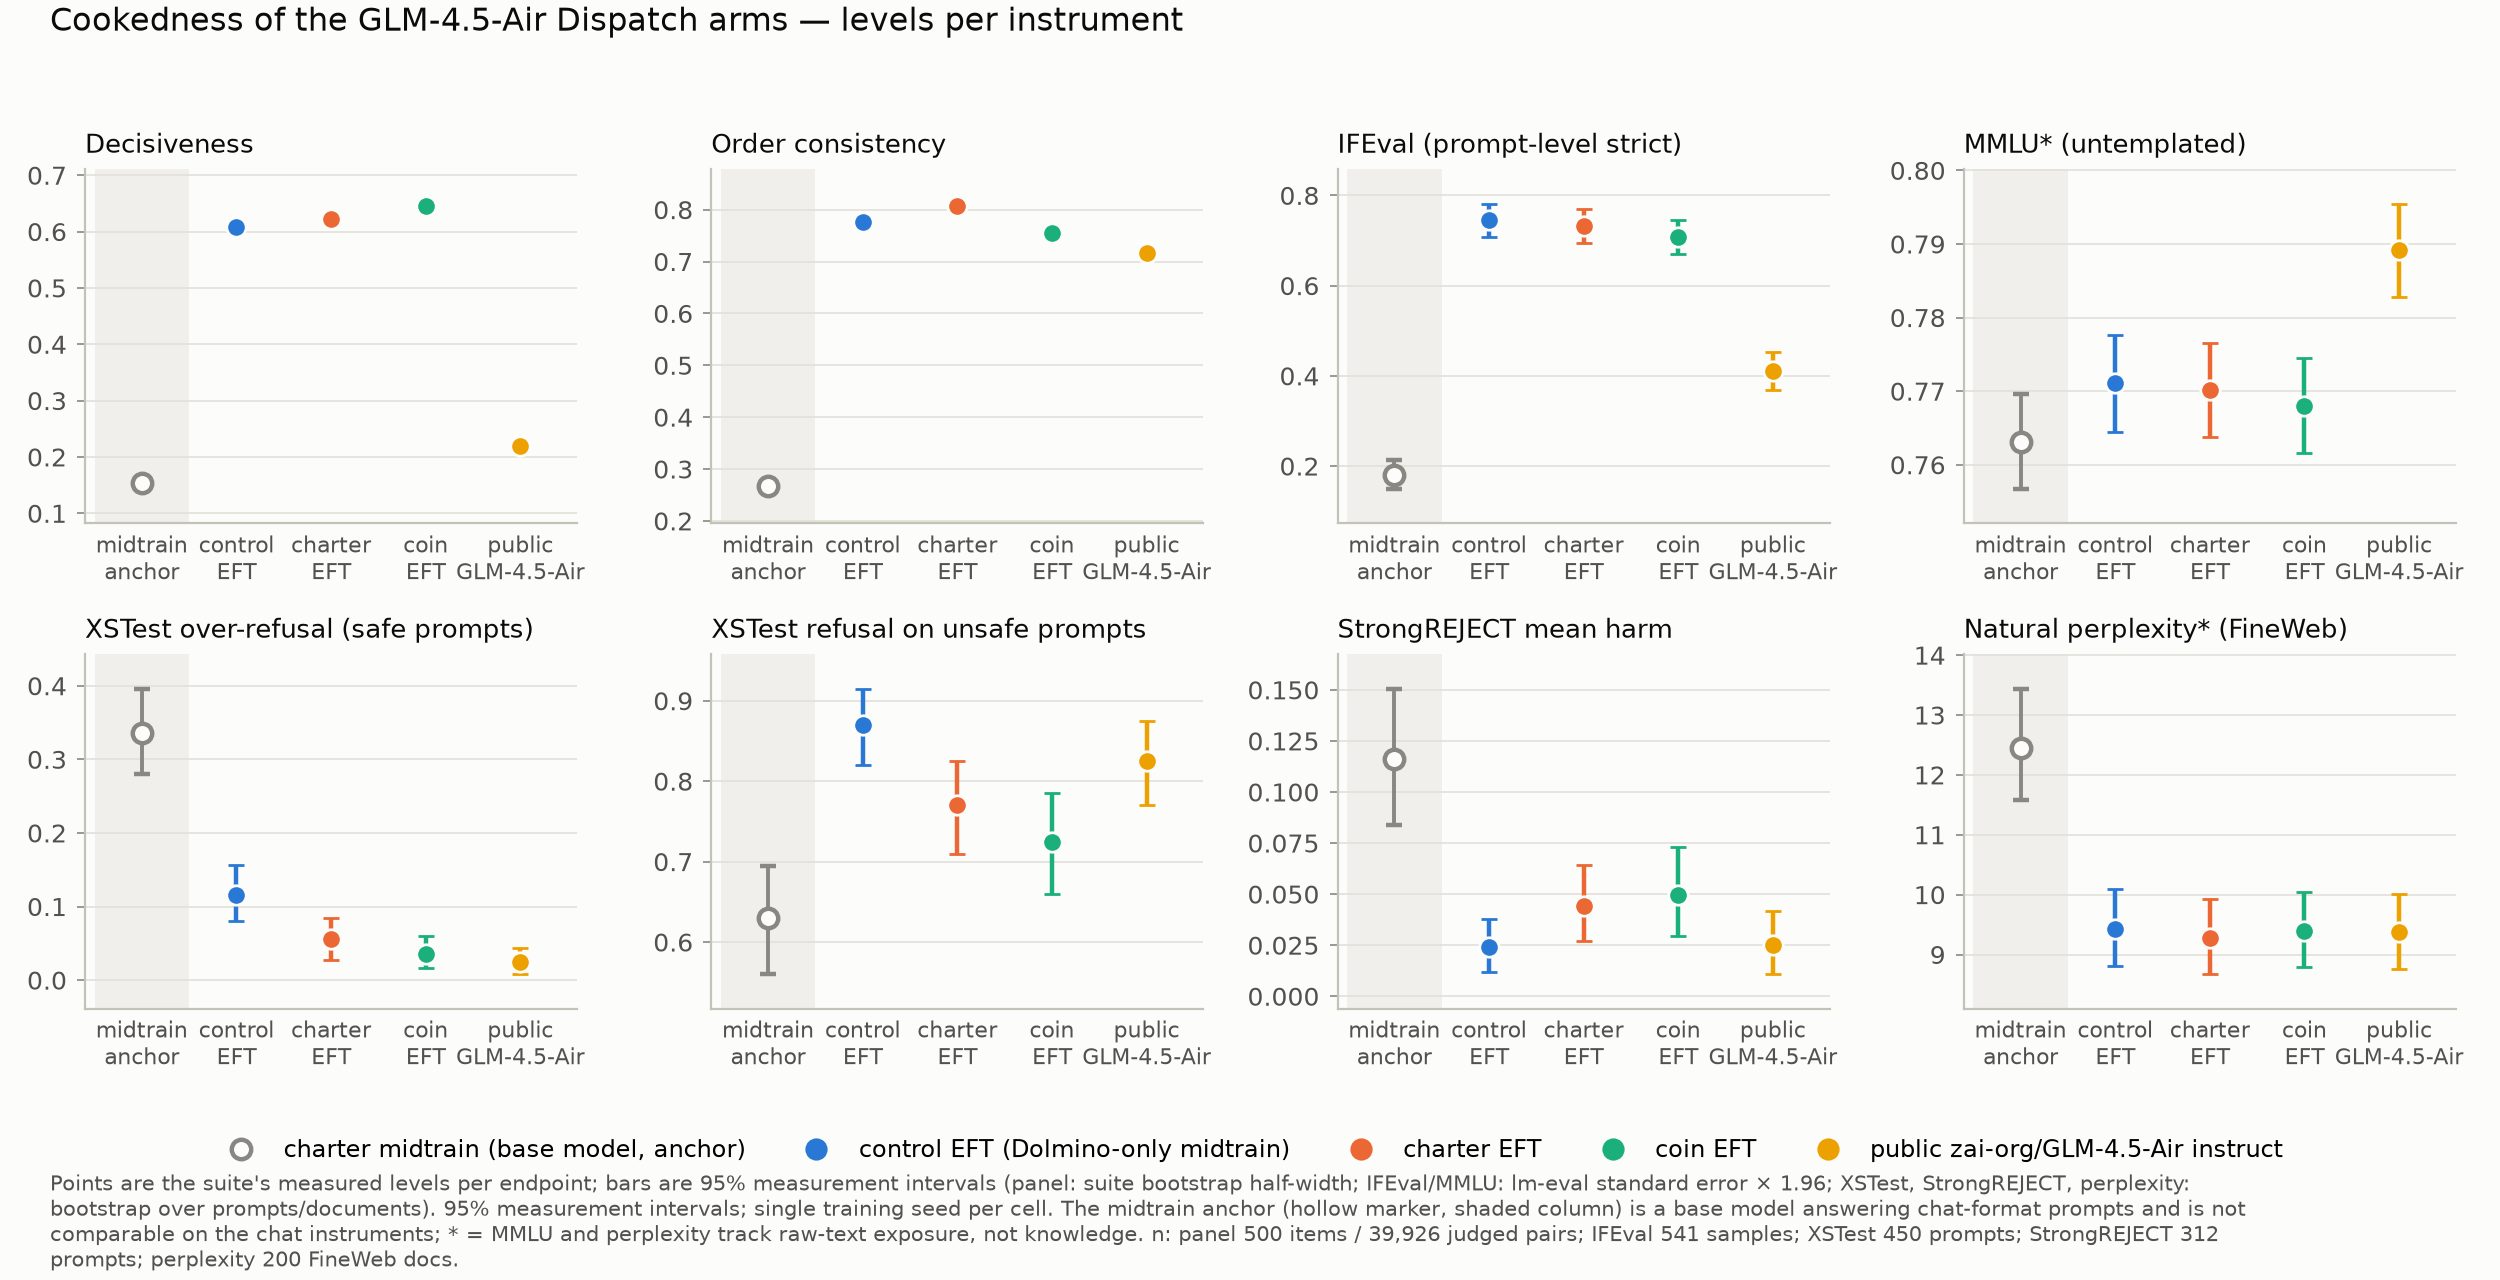
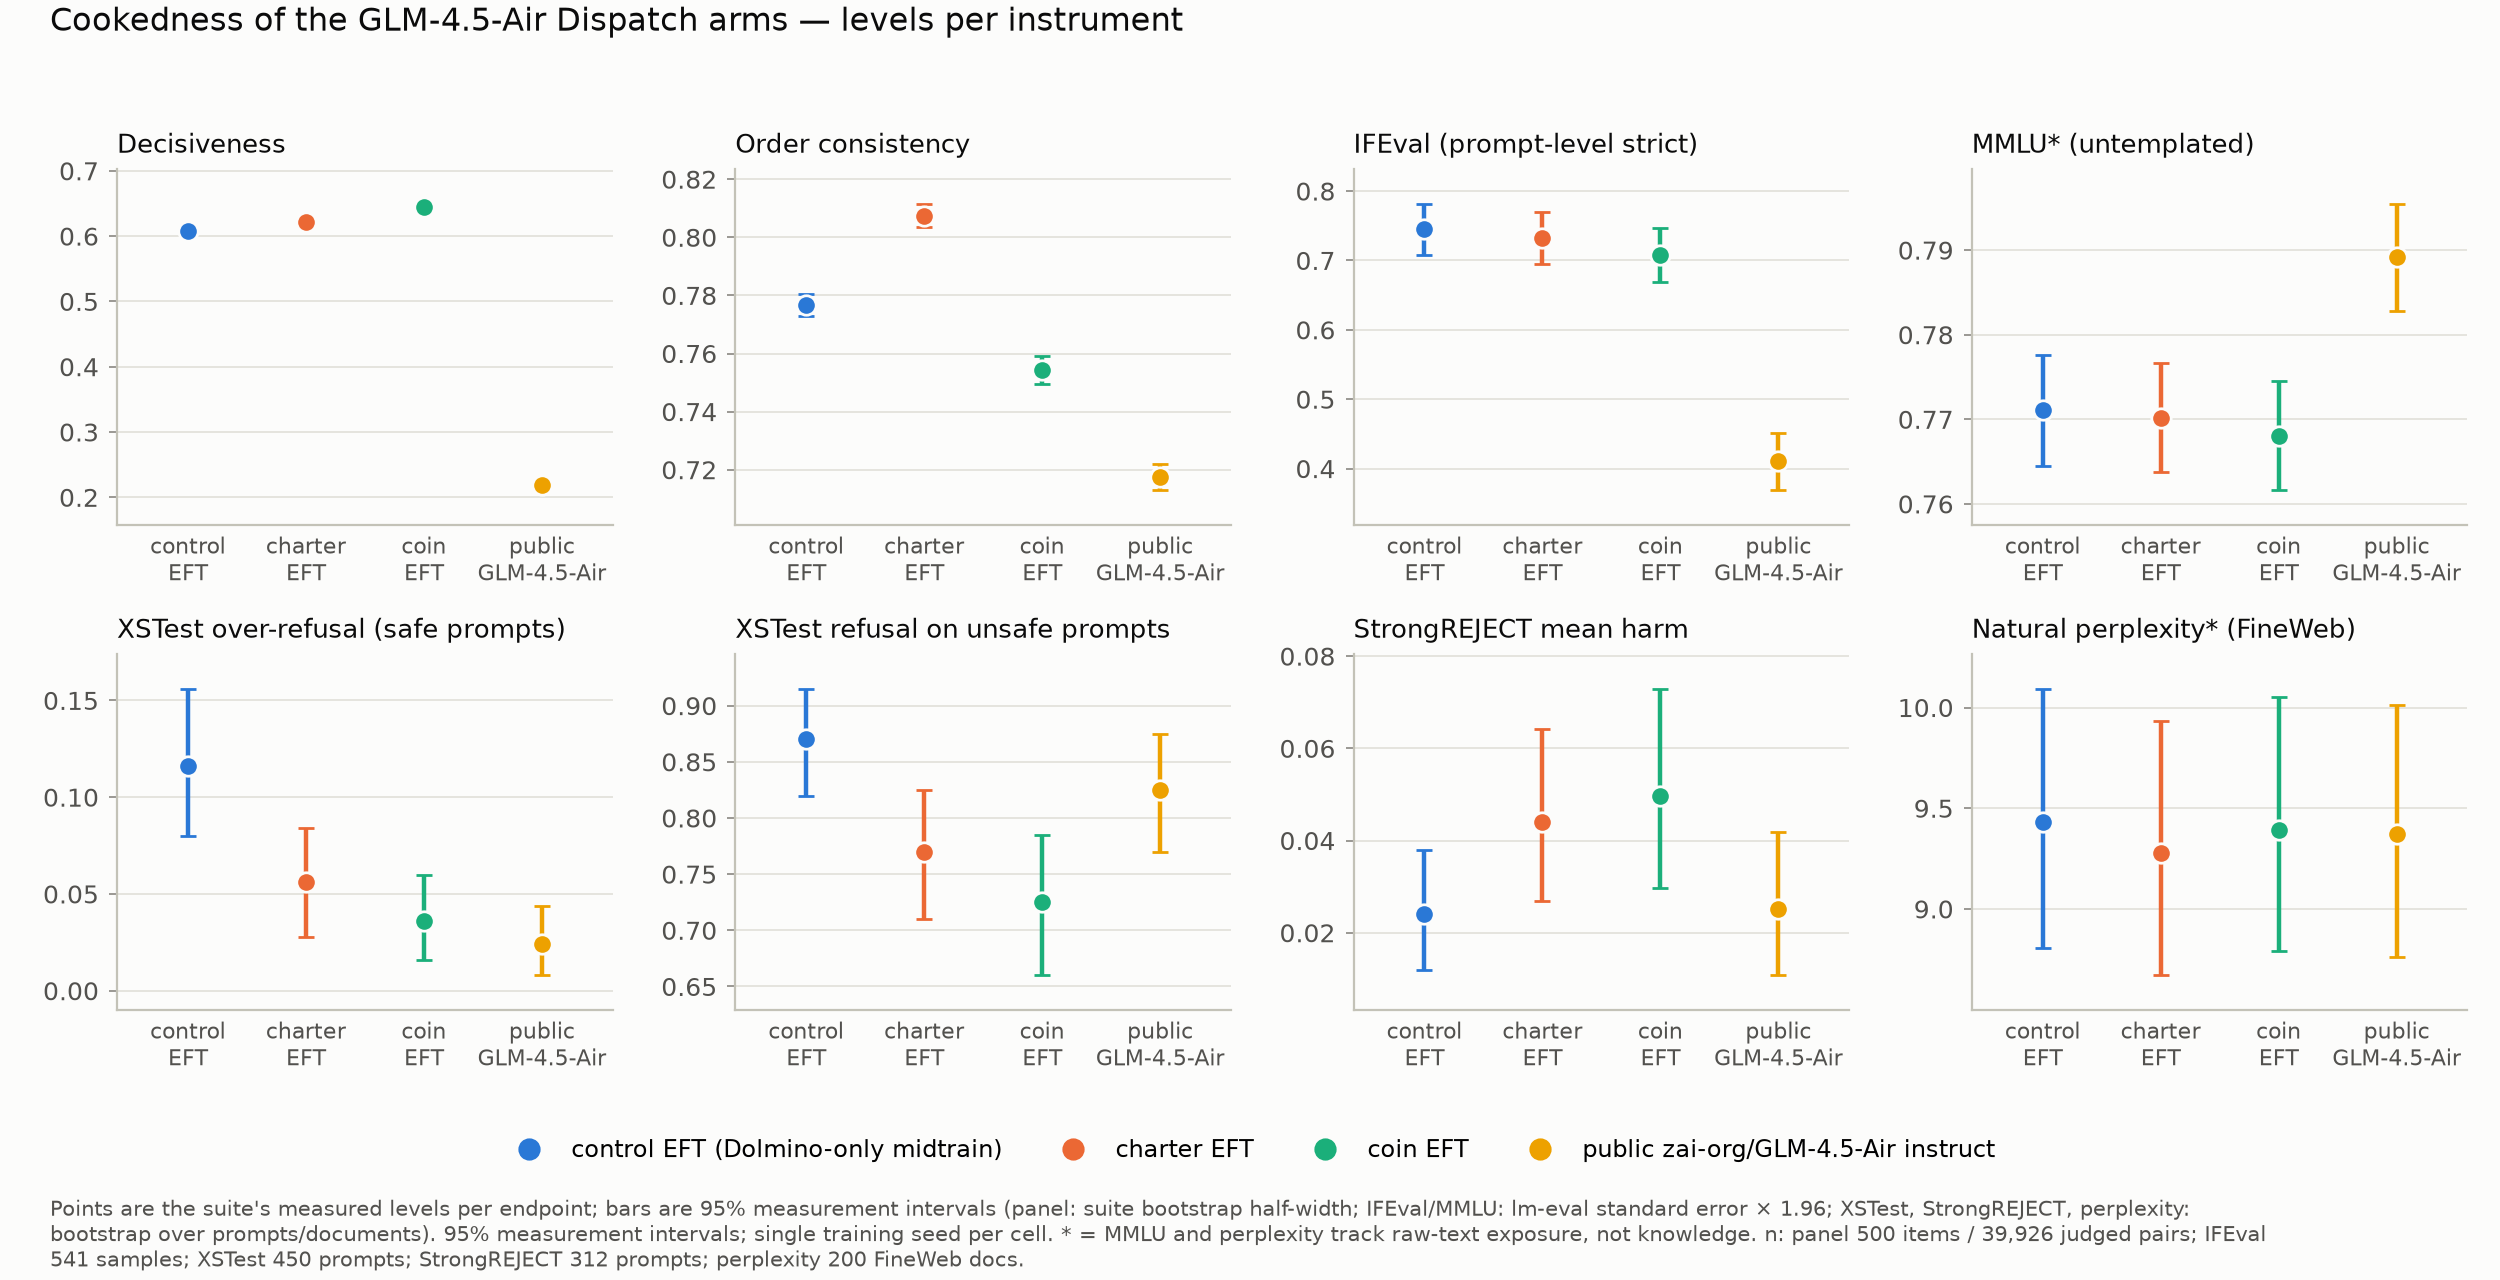
cookedness_glm_v1: levels figure shows the four instruct endpoints only; the base-model anchor is behind --with-anchor (user request)

diff --git a/experiments/cookedness_glm_v1/plot_cookedness.py b/experiments/cookedness_glm_v1/plot_cookedness.py
@@ -3,8 +3,9 @@
     uv run --extra dev python plot_cookedness.py [--error-bars error_bars.json] [--rows rows.json]
                                                  [--results results] [--out figures]
 
-  figures/cookedness_levels.{pdf,png}             one panel per instrument, five endpoints as points
-                                                  with their 95% measurement bars
+  figures/cookedness_levels.{pdf,png}             one panel per instrument, the four instruct endpoints
+                                                  as points with their 95% measurement bars
+                                                  (--with-anchor adds the midtrain base-model anchor)
   figures/cookedness_paired_vs_control.{pdf,png}  paired arm − control differences with 95% bars
 
 Every number drawn comes from `error_bars.json` (points + intervals) or `rows.json` (n per
@@ -123,9 +124,9 @@ def sample_sizes(rows, results_root):
     return n, by
 
 
-def fig_levels(eb, rows, results_root, out: Path):
+def fig_levels(eb, rows, results_root, out: Path, with_anchor: bool = False):
     eps = eb["endpoints"]
-    present = [e for e in ENDPOINTS if e[0] in eps]
+    present = [e for e in ENDPOINTS if e[0] in eps and (with_anchor or not e[3])]
     x = list(range(len(present)))
     fig, axes = plt.subplots(2, 4, figsize=(12.5, 6.4))
     for ax, (key, title, nsrc) in zip(axes.flat, LEVEL_PANELS):
@@ -157,9 +158,9 @@ def fig_levels(eb, rows, results_root, out: Path):
                "(panel: suite bootstrap half-width; IFEval/MMLU: lm-eval standard error × 1.96; XSTest, "
                "StrongREJECT, perplexity: bootstrap over prompts/documents). "
                "95% measurement intervals; single training seed per cell. "
-               "The midtrain anchor (hollow marker, shaded column) is a base model answering chat-format "
-               "prompts and is not comparable on the chat instruments; * = MMLU and perplexity track raw-text "
-               "exposure, not knowledge. n: " + "; ".join(parts) + ".")
+               + ("The midtrain anchor (hollow marker, shaded column) is a base model answering chat-format "
+                  "prompts and is not comparable on the chat instruments; " if with_anchor else "")
+               + "* = MMLU and perplexity track raw-text exposure, not knowledge. n: " + "; ".join(parts) + ".")
     fig.text(0.02, 0.005, textwrap.fill(caption, 205), ha="left", va="bottom", fontsize=7.6, color=INK2)
     fig.suptitle("Cookedness of the GLM-4.5-Air Dispatch arms — levels per instrument", x=0.02, ha="left",
                  fontsize=11.5, color=INK, y=0.995)
@@ -220,13 +221,16 @@ def main():
     ap.add_argument("--rows", default="rows.json")
     ap.add_argument("--results", default="results")
     ap.add_argument("--out", default="figures")
+    ap.add_argument("--with-anchor", action="store_true",
+                    help="also draw the charter midtrain base-model anchor in the levels figure (off by default: "
+                         "it is a base model and the chat instruments are not designed for it)")
     a = ap.parse_args()
     style()
     out = Path(a.out)
     out.mkdir(parents=True, exist_ok=True)
     eb = json.load(open(a.error_bars))
     rows = json.load(open(a.rows))
-    fig_levels(eb, rows, a.results, out)
+    fig_levels(eb, rows, a.results, out, with_anchor=a.with_anchor)
     fig_paired(eb, rows, a.results, out)
     print("wrote", sorted(p.name for p in out.iterdir()))
 
